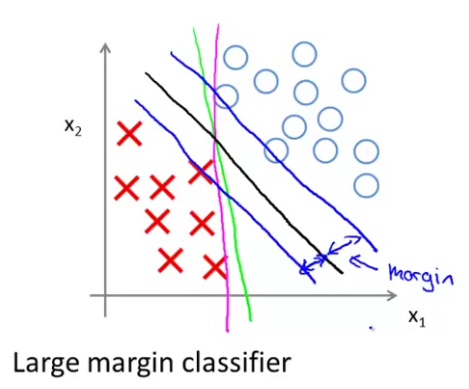
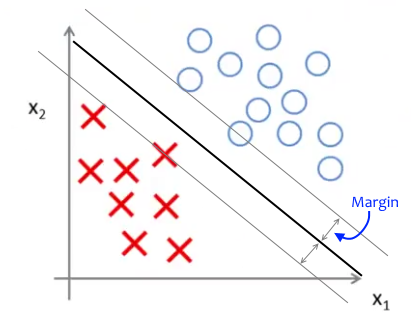
did svm stuff.

diff --git a/Report/sections/SVM.tex b/Report/sections/SVM.tex
@@ -1,33 +1,93 @@
 %!TEX root = ..\Master.tex
 
 \subsection{Support Vector Machines}
+The support vector machine is a supervised learning algorithm.
+Compared to neural network, it sometimes gives a cleaner and more powerful way of learning complex non-linear functions. (TODO: What does more powerful mean?)
 
-e.g. decision function, support vectors, soft margins, kernel trick.\\
-
-Introtext\\
-
-It is supervised.
-
-Compared to neural network and logistic regression, it sometimes gives a cleaner and more powerful way of learning complex non-linear functions.
-
-Hard margin (linear): Finds the line that seperates the data with the largest margin.
-
-Soft margin (linear): Finds the (TODO: Curve?) that seperates the data with the largest margin.
+\subsubsection{Linear}
+When doing the linear classifier, SVM will try to find the line that seperates the data with the highest margin as seen on figure \ref{fig:svm-margin}.
 
 \begin{figure}[H]
 \centering
-\includegraphics{billeder/svm-margin}
-\caption{TODO}
+\includegraphics[scale=.75]{billeder/svm-margin}
+\caption{Large margin classification.}
 \label{fig:svm-margin}
 \end{figure}
-The figure is only true when $C = \frac{1}{\lambda}$ (regularization term) is very large.
 
-TODO: hard margin vs soft margin. 
-TODO: Kernels.
-Math\\
+By solving the optimization problem defined as equation \ref{eq:svm-linear-optimization}, we find the parameters for the linear SVM classifier.
+\begin{equation}
+\min_{\theta}C \sum_{i=1}^{m}
+\left[ y^{(i)}cost_1(\theta^Tx^{(i)})+(1-y^{(i)})cost_0(\theta^Tx^{(i)}) \right]
++ \frac{1}{2}\sum_{i=1}^{n}\theta^2_j
+\label{eq:svm-linear-optimization}
+\end{equation}
+We must choose the value of the constant $C$. (TODO: what is its effect? Some regularization thing.)
+Figure \ref{fig:svm-cost-function} shows the plot of $cost_0$ and $cost_1$.
+\begin{figure}[H]
+\centering
+\includegraphics[scale=.75]{billeder/svm-cost-function}
+\caption{Left: $cost_1(\theta^Tx^{(i)})$. Right: $cost_0(\theta^Tx^{(i)})$}
+\label{fig:svm-cost-function}
+\end{figure}
 
-How we use it or why we don't use it\\
+Hypothesis: (TODO: Is this correct? shouldn't it be 1 if $\theta^Tx \geq 1$ and 0 if $\theta^Tx \leq -1$)
+\begin{equation}
+h = 
+\begin{cases}
+1 & \text{if}\ \theta^Tx \geq 0 \\
+0 & \text{otherwise}
+\end{cases}
+\end{equation}
 
-Intermediate result\\
+\subsubsection{Non-linear}
+Finds the kernels that seperates the data best.
+gaussian kernels.
+
+\begin{figure}[H]
+\centering
+\includegraphics[scale=.75]{billeder/svm-non-linear}
+\caption{Example of problem that requires non-linear classification.}
+\label{fig:svm-non-linear}
+\end{figure}
+
+The gaussian kernel function:
+\begin{equation}
+f_i = similarity(x,l^{(i)}) =
+exp\left(-\frac{||x-l^{(i)}||^2}{2\sigma^2}\right)
+\end{equation}
+
+At each training example we will put a landmark:
+\begin{equation}
+\begin{split}
+\text{Given}\ (x^{(1)},y^{(1)}),(x^{(2)},y^{(2)}),\dots,(x^{(m)},y^{(m)}),\\
+\text{choose}\ l^{(1)} = x^{(1)},l^{(2)} = x^{(2)},\dots,l^{(m)} = x^{(m)}
+\end{split}
+\end{equation}
+
+We convert the training data into new feature vectors. For training example $(x^{(i)},y^{(i)})$:
+\begin{equation}
+f^{(i)}=
+\begin{bmatrix}
+f_0^{(i)} \\
+f_1^{(i)} \\
+\vdots \\
+f_m^{(i)}
+\end{bmatrix}
+\end{equation}
+ where $f_0^{(i)} = 1$.
+
+The minimization problem now looks like:
+\begin{equation}
+\min_{\theta}C \sum_{i=1}^{m}
+\left[ y^{(i)}cost_1(\theta^Tf^{(i)})+(1-y^{(i)})cost_0(\theta^Tf^{(i)}) \right]
++ \frac{1}{2}\sum_{i=1}^{m}\theta^2_j
+\end{equation}
+
+A large C gives lower bias and high variance, which means it uses a smaller amount of regularization and is more prone to overfitting. \\
+A small C gives higher bias and low variance, which means it uses a higher amount of regularization and is more prone to underfitting. \\
+A large $\sigma^2$ gives higher bias and lower variance, which means that features $f_i$ varies more smoothly. \\
+A small $\sigma^2$ gives lower bias and higher variance, which means that features $f_i$ varies less smoothly.
+
+(TODO: How do we use it?)
 
 %------------------------------------------------
